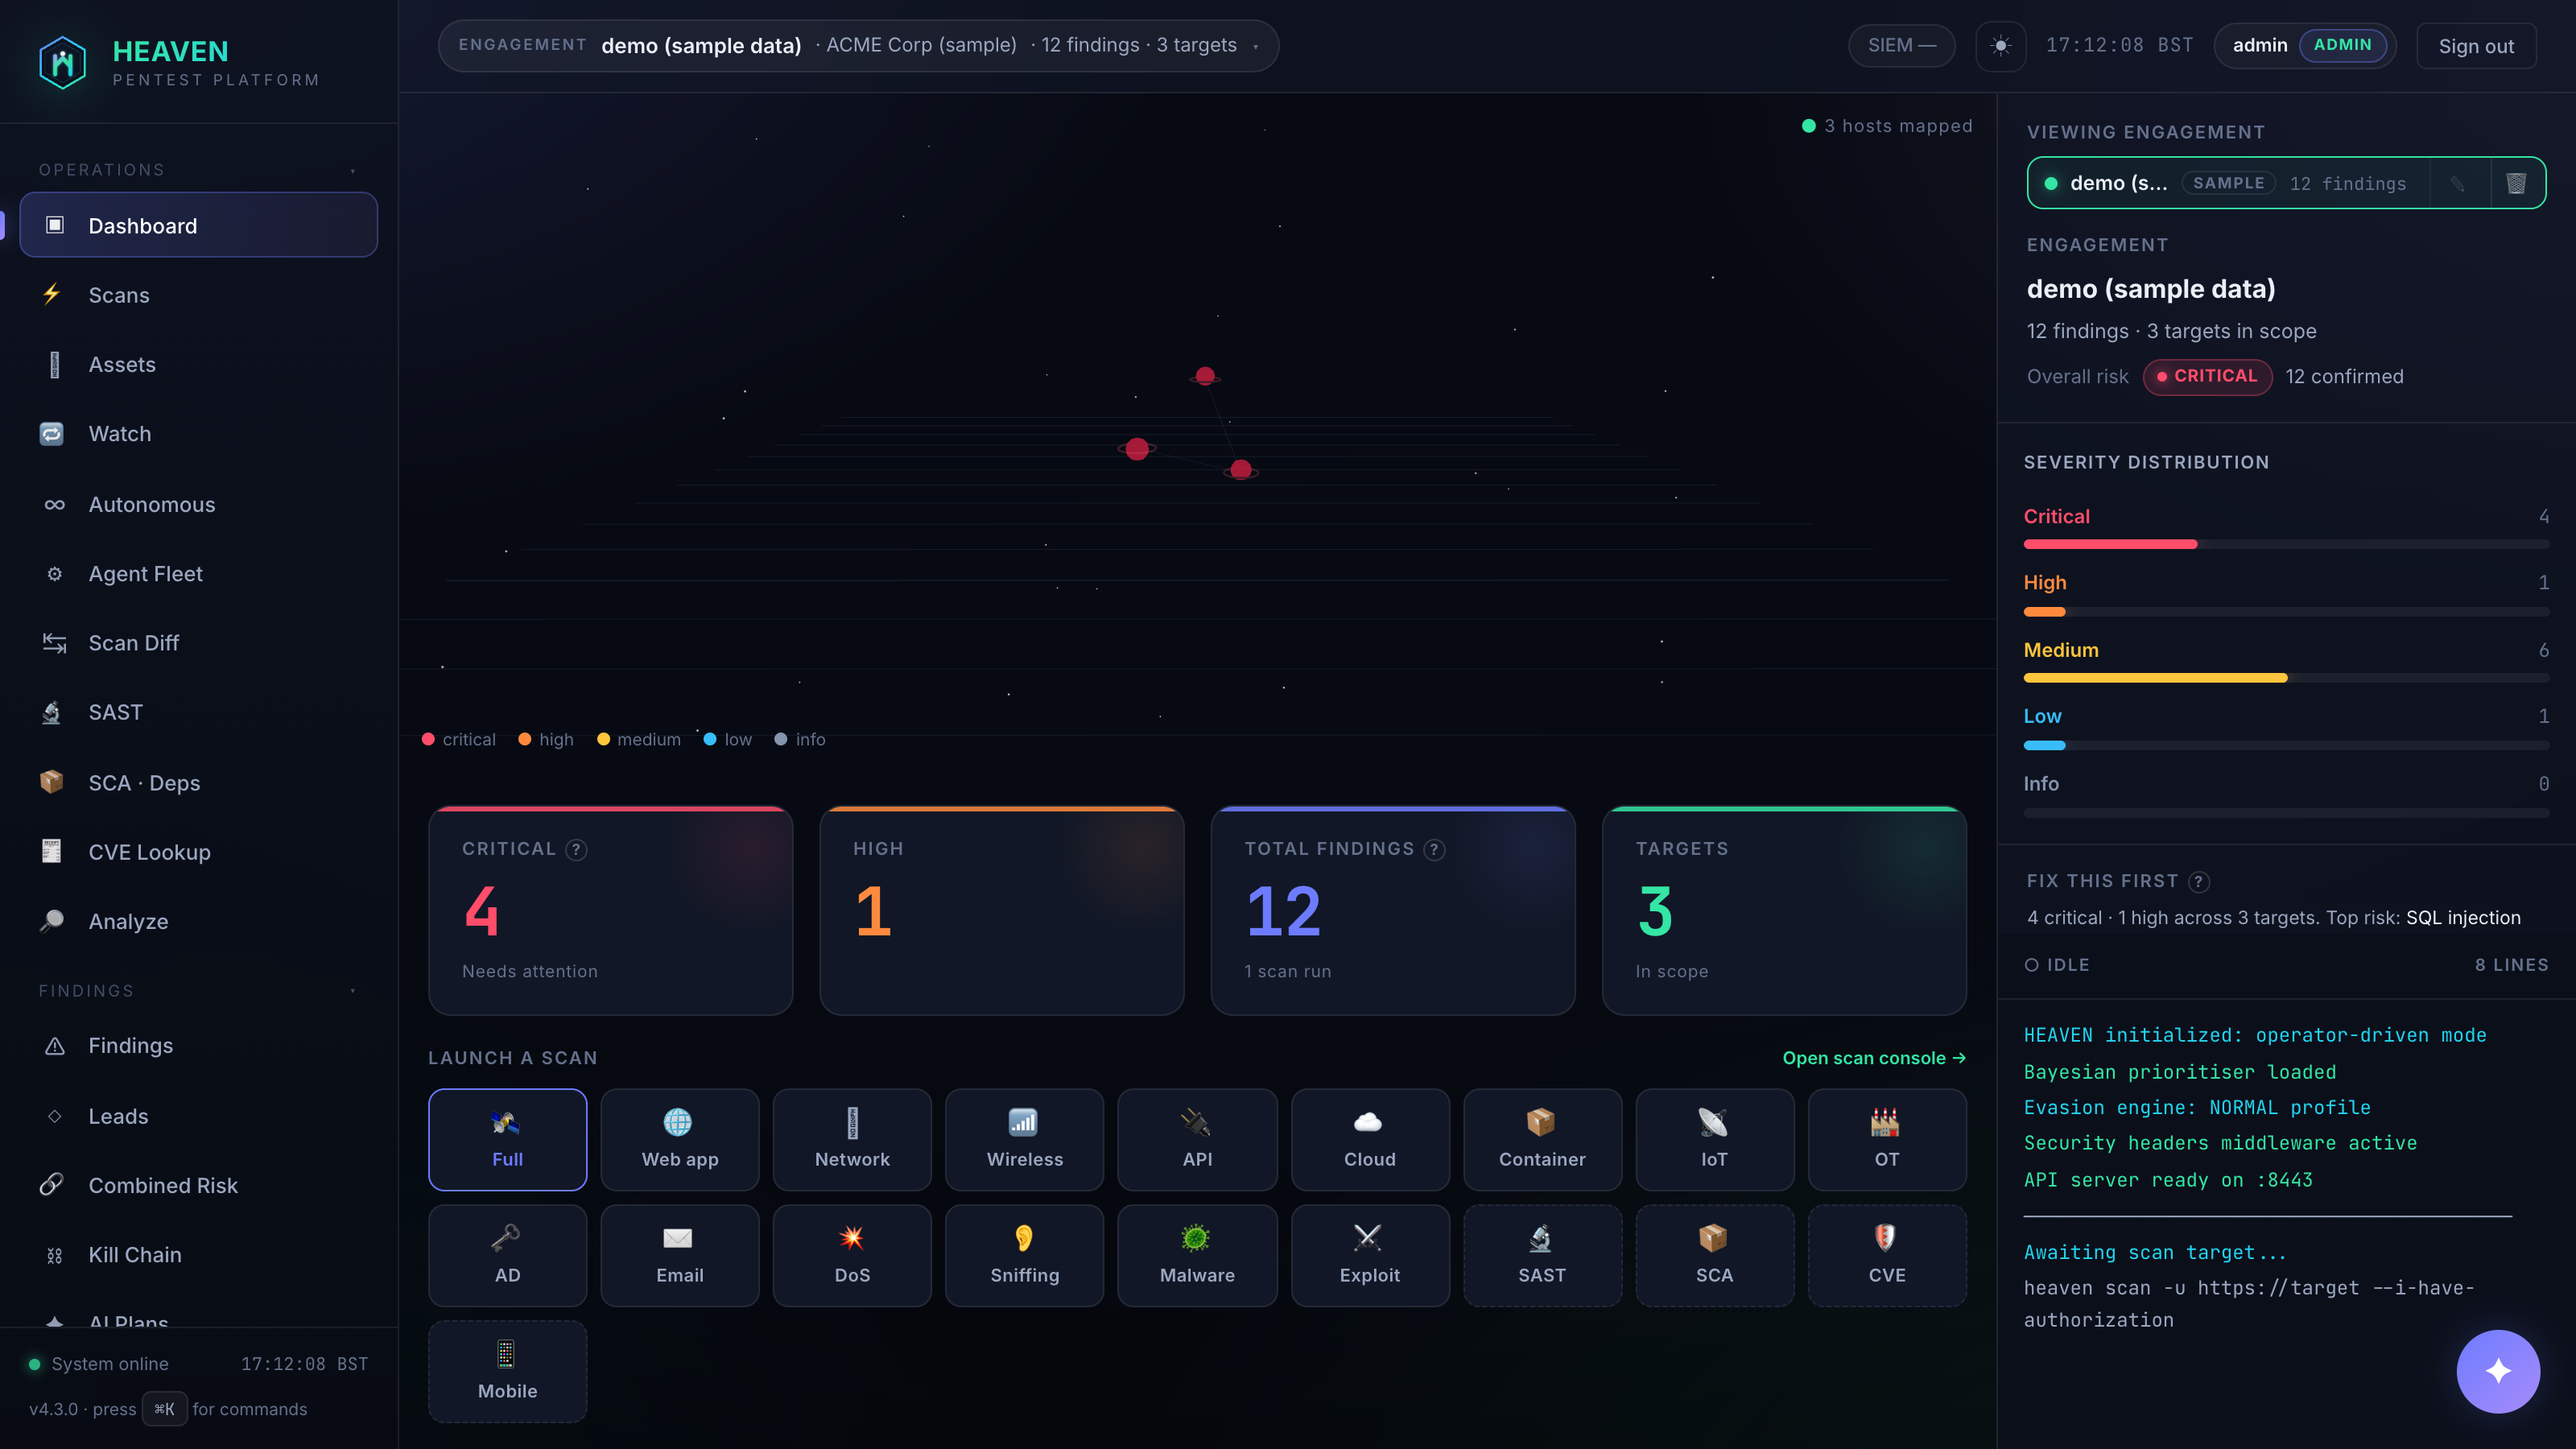
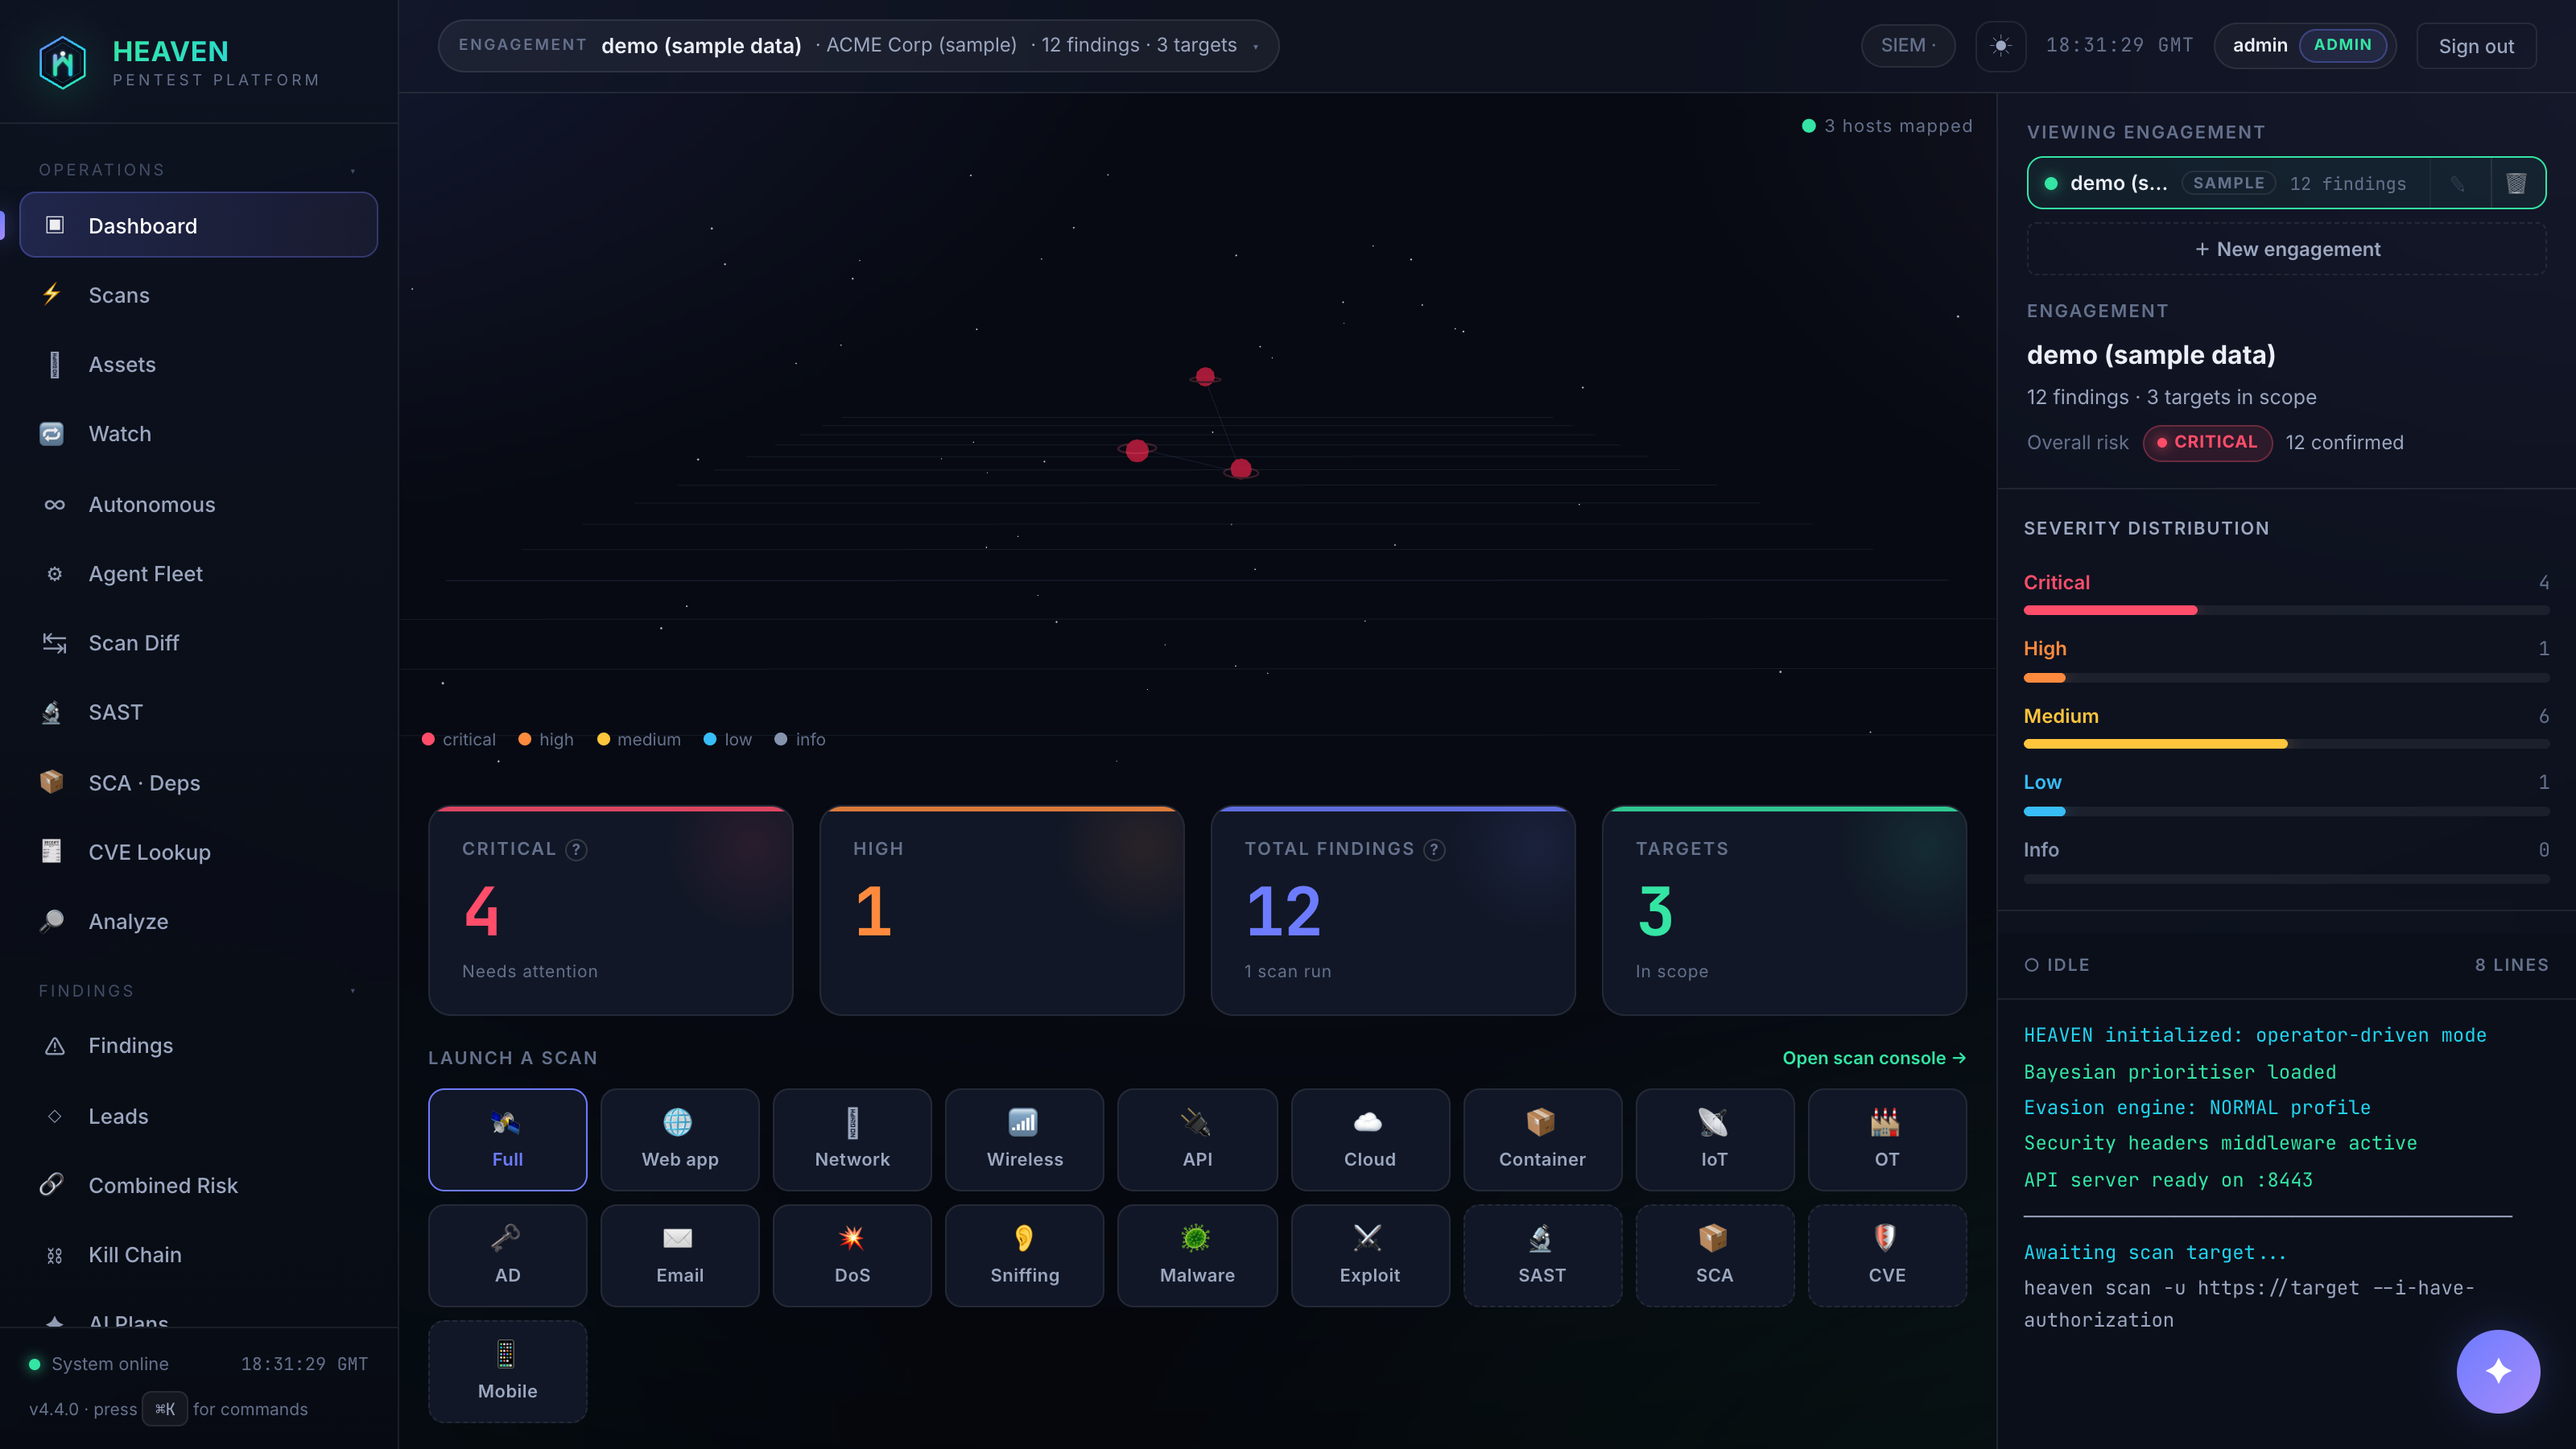
chore: release version 4.4.0
- Added new features including a `--profile` switch for bug bounty scans, program-scope import for bug-bounty platforms, in-house DNS and HTTP out-of-band collaborator, OAuth, OIDC, and SAML flow abuse testing, single-packet race and business-logic probes, cross-identity BOLA with ground truth, submission-ready per-finding reports, engagement creation from the web UI, and Active Directory ACL takeover analysis.
- Changed dependency floors to track the tested-green baseline, tightened engagement handling and input validation, and updated CI and container workflows.
- Fixed issues with crawl traps starving the crawler, WebSocket push streams leaking subscribers, false-positive precision, and markdown rendering in reports.
- Addressed security by clearing October 2026 advisories and hardening API input and error handling.
- Updated version numbers in various files to reflect the new release.

diff --git a/heaven-ui/src/components/Sidebar.jsx b/heaven-ui/src/components/Sidebar.jsx
@@ -167,7 +167,7 @@ export default function Sidebar() {
           </span>
         </div>
         <div style={{ marginTop: 8, fontSize: 10.5, color: 'var(--text-2)' }}>
-          v4.3.0 · press <kbd>⌘K</kbd> for commands
+          v4.4.0 · press <kbd>⌘K</kbd> for commands
         </div>
       </div>
     </aside>

diff --git a/heaven/ml/risk_model.py b/heaven/ml/risk_model.py
@@ -93,7 +93,7 @@ class HeavenRiskModel:
         # (data/models/cvss_regressor.joblib from `heaven train-model`); the file
         # itself is never loaded directly.
         self.model_path = model_path or Path("models/risk_model_v2.joblib")
-        self.version = "4.3.0"
+        self.version = "4.4.0"
         self._is_trained = False
         self._regressor = None
         self._feature_names: list[str] = []

diff --git a/heaven/__init__.py b/heaven/__init__.py
@@ -1,7 +1,7 @@
 # HEAVEN — Autonomous Pen-Testing Framework
 # Core package initialisation
 
-__version__ = "4.3.0"
+__version__ = "4.4.0"
 __codename__ = "HEAVEN"
 __tagline__ = "Autonomous Penetration-Testing Platform"
 

diff --git a/CHANGELOG.md b/CHANGELOG.md
@@ -9,6 +9,102 @@ and this project adheres to [Semantic Versioning](https://semver.org/spec/v2.0.0
 
 ## [Unreleased]
 
+## [4.4.0]: 2026-11-02
+
+### Added
+
+- **One `--profile` switch aims the same deep engine at a pentest or a bug
+  bounty.** `heaven scan --profile bugbounty` overlays scope discipline, polite
+  adaptive rate limiting, routable out-of-band callbacks, and a submission-ready
+  export on top of the existing scan modes, so the full web, API, and cloud depth
+  can run against scope-constrained, internet-facing programs. The default stays
+  `pentest` for a full internal or external assessment. The overlay
+  (`heaven/profiles.py`) is orthogonal to the scan mode, so nothing on the
+  deep-pentest path changes when it is off.
+- **Program-scope import for bug-bounty platforms.** `heaven engage scope-import
+  <file>` reads a HackerOne or Bugcrowd style scope (in-scope hosts and URLs,
+  `*.example.com` wildcards, and an explicit out-of-scope list) into the
+  engagement store. Wildcard entries become subdomain-wide recon targets and feed
+  `ScopeGuard`, so breadth recon and every scanner stay inside the program's
+  rules.
+- **In-house DNS and HTTP out-of-band collaborator.** `heaven/vulnscan/oast.py`
+  now runs a real UDP DNS responder beside the existing HTTP listener, keyed to
+  the same per-probe token, and `heaven oast` runs the collaborator standalone on
+  a public box (delegate an NS record to it, or point it at a public IP). With
+  `HEAVEN_OAST_DNS_ZONE` set, blind SSRF, XXE, OS command injection, and SQL
+  injection that only trigger a DNS lookup are proven by the observed callback, so
+  each is reported on real evidence rather than a guess. Without a zone it degrades
+  to the HTTP-only channel it had before.
+- **OAuth, OIDC, and SAML flow abuse.** A new `heaven/vulnscan/oauth_scanner.py`
+  works from `.well-known/openid-configuration` and SAML metadata to test
+  `redirect_uri` manipulation, a missing `state` or PKCE, implicit-flow tokens in
+  the URL, SAML signature stripping, and password-reset host-header poisoning.
+  Each result is marked Confirmed or Potential and reuses the primary and
+  low-privilege identities the scan already holds.
+- **Single-packet race and business-logic probes.** `RaceConditionDetector`
+  (`heaven/vulnscan/advanced_attacks.py`) adds a true single-packet race
+  (last-byte-synchronised across many connections) against state-changing
+  endpoints, reads a limit overrun off the divergent success count, and reproduces
+  the finding before reporting it. A new `heaven/vulnscan/logic_scanner.py` adds
+  numeric and quantity tampering and workflow step-skip checks.
+- **Cross-identity BOLA with ground truth.** The IDOR scanner
+  (`heaven/vulnscan/idor_scanner.py`) now has each identity hold its own canary
+  object and proves that one identity can read the other's object and back again,
+  a reciprocal cross-read, instead of inferring access from a single swap.
+- **Submission-ready per-finding report.** `heaven findings export --format
+  bugbounty` writes one markdown report per finding (title, severity with its CVSS
+  vector, CWE, copy-paste request and response, impact, remediation, and the OAST
+  callback when there is one), and `--platform hackerone|bugcrowd|intigriti`
+  tailors the section wording.
+- **Create an engagement from the web UI.** The React app and the API create a new
+  engagement from a form (`POST /api/engagements`), so a fresh install no longer
+  has to drop to the CLI to start, and a brand-new engagement appears immediately
+  rather than showing the empty state.
+- **Active Directory ACL takeover analysis.** `heaven/recon/ad_acl.py` parses
+  security descriptors to surface DCSync rights, ACL-takeover edges, and RBCD,
+  gated on a privileged security identifier so it does not fabricate a path to
+  Domain Admin.
+
+### Changed
+
+- **Dependency floors now track the tested-green baseline.** Every manifest
+  (`pyproject.toml`, `requirements.txt`) pins the floor to the version this release
+  is built and CI-tested against, while a fresh install still resolves to the
+  latest compatible release. `numpy` is capped at the newest line that still
+  supports Python 3.11, which remains a CI matrix leg.
+- **Engagement handling and input validation** were tightened across the create,
+  rename, and resolution paths, with stricter checks on the values that reach them.
+- **CI and container workflows** were updated for faster, steadier builds.
+
+### Fixed
+
+- **A self-regenerating crawl trap can no longer starve the crawler.** The web
+  crawler (`heaven/recon/web_crawler.py`) caps how many URLs of one template it
+  will enqueue, so an infinite calendar or id-tree tarpit cannot spend the whole
+  page budget and crowd out real routes such as `/login`, `/admin`, and the API.
+  Named routes are never capped, so recall on a benign site is unchanged.
+- **WebSocket push streams no longer leak a subscriber on an abnormal
+  disconnect.** The stream pump races the client receive against the queue read and
+  removes the subscriber when the socket drops.
+- **False-positive precision.** Several detectors were tightened against live
+  traffic: the directory fuzzer no longer reports a blanket-deny WAF or CDN 403 as
+  a finding, the catch-all-host fuzz path no longer invents endpoints, the race
+  detector no longer force-POSTs a crawled GET link, and the YARA engine no longer
+  reads a bare `<%` as a PHP web shell.
+- **Markdown rendering** in reports and the UI was corrected, and a timezone test
+  was made deterministic.
+
+### Security
+
+- **The dependency batch clears the October 2026 advisories.** The upgraded floors
+  resolve the known CVEs across `aiohttp` (request smuggling), `python-multipart`,
+  `jinja2`, `cryptography`, `pyjwt`, `click`, `python-dotenv`, `dnspython`,
+  `asyncssh`, and `starlette`, bringing the audited set to zero known
+  vulnerabilities.
+- **API input and error hardening.** A request body of the wrong JSON shape now
+  returns a clean 422 instead of a 500, and a crashed scan, job, or fleet task
+  returns a safe error message that does not leak internal details.
+
 ## [4.3.0]: 2026-10-12
 
 ### Added

diff --git a/README.md b/README.md
@@ -96,7 +96,7 @@ It runs three ways from the **same engagement dataset**:
 - **REST + WebSocket API**: 107 RBAC-protected routes for automation and integration.
 
 <div align="center">
-<img width="760" alt="HEAVEN: Autonomous Penetration Testing Platform v4.3.0" src="docs/screenshots/Heaven_Autonomous_Penetration_Testing_Platform.png" />
+<img width="760" alt="HEAVEN: Autonomous Penetration Testing Platform v4.4.0" src="docs/screenshots/Heaven_Autonomous_Penetration_Testing_Platform.png" />
 </div>
 
 ---
@@ -471,7 +471,7 @@ AI feature falls back to a deterministic heuristic (or pass `--no-llm`).
 70 commands. Run `heaven <command> --help` for full options.
 
 <div align="center">
-<img width="820" alt="heaven CLI dashboard: module status + live command reference (v4.3.0)" src="docs/screenshots/Heaven_cli.png" />
+<img width="820" alt="heaven CLI dashboard: module status + live command reference (v4.4.0)" src="docs/screenshots/Heaven_cli.png" />
 </div>
 
 <div align="center">

diff --git a/SECURITY.md b/SECURITY.md
@@ -128,8 +128,8 @@ For a multi-user or internet-exposed deployment, also:
 
 | Version | Supported |
 |---|---|
-| 4.3.x  | ✅ |
-| < 4.3  | ❌ please upgrade |
+| 4.4.x  | ✅ |
+| < 4.4  | ❌ please upgrade |
 
 ## Security release process
 
